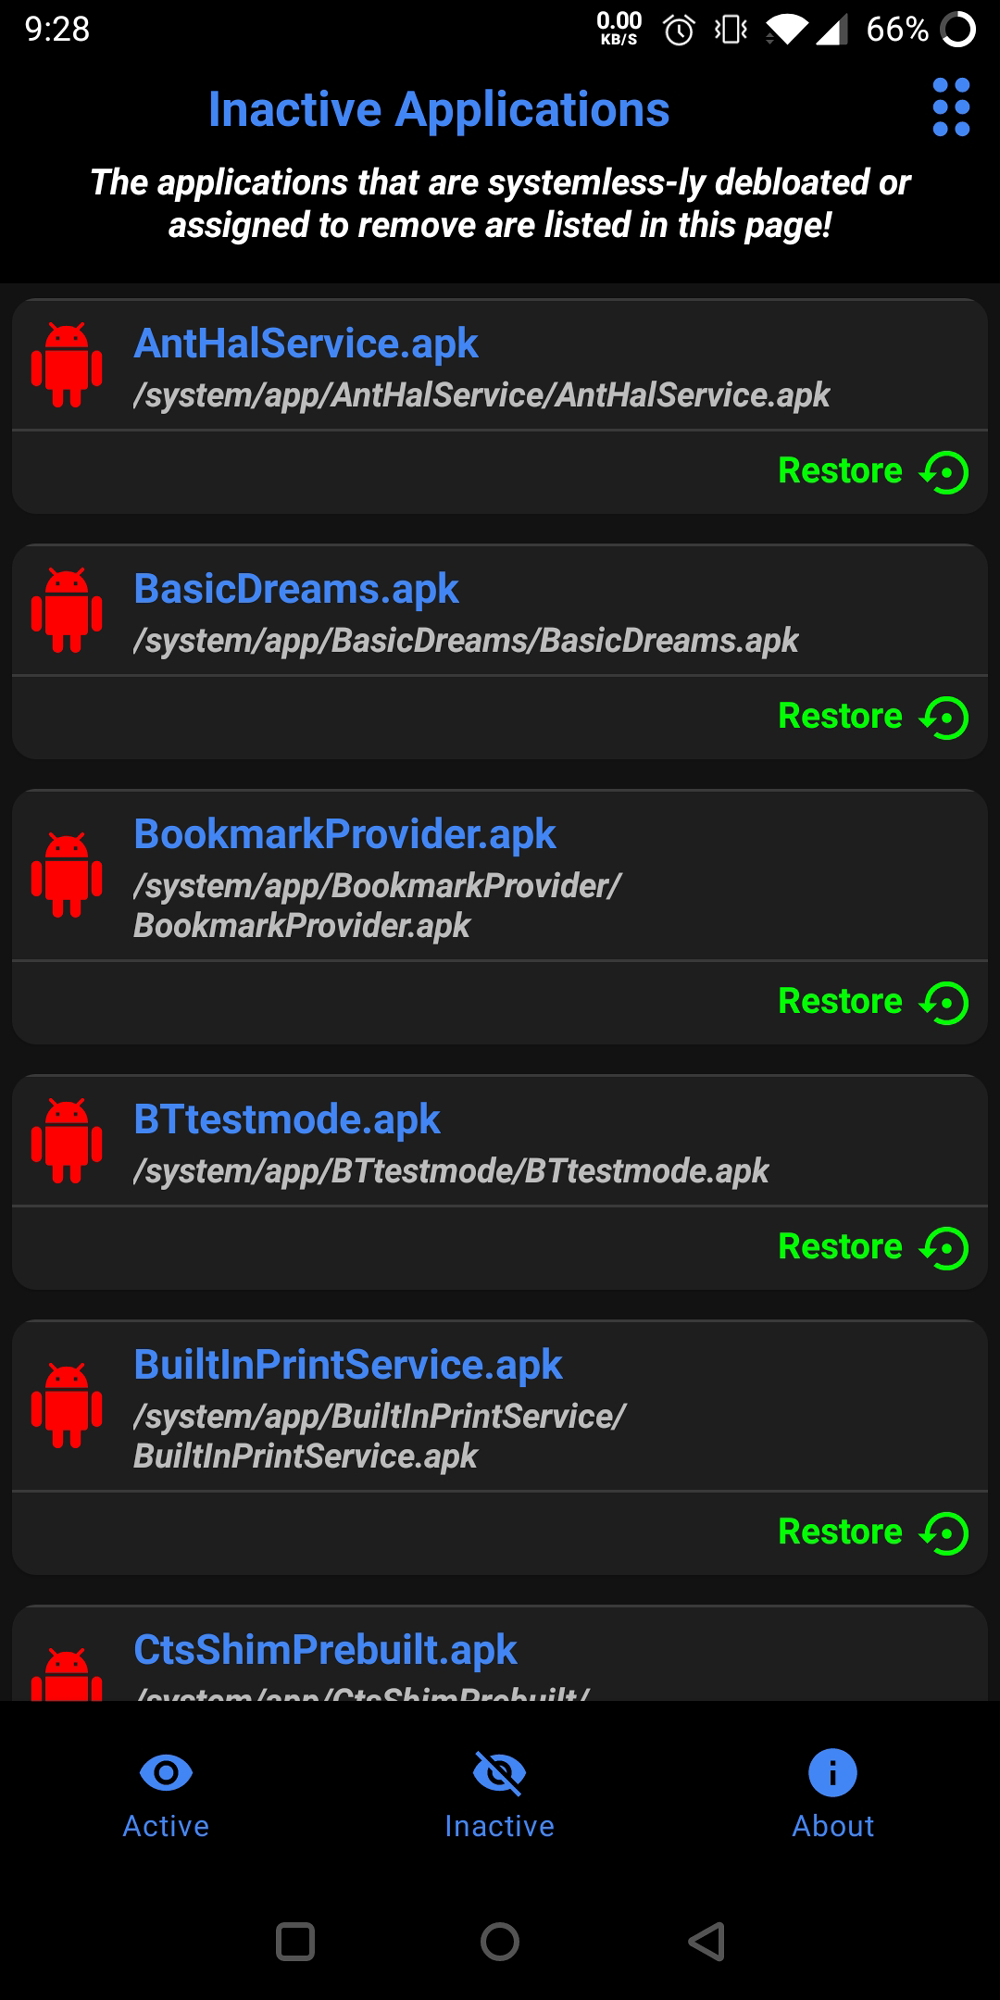
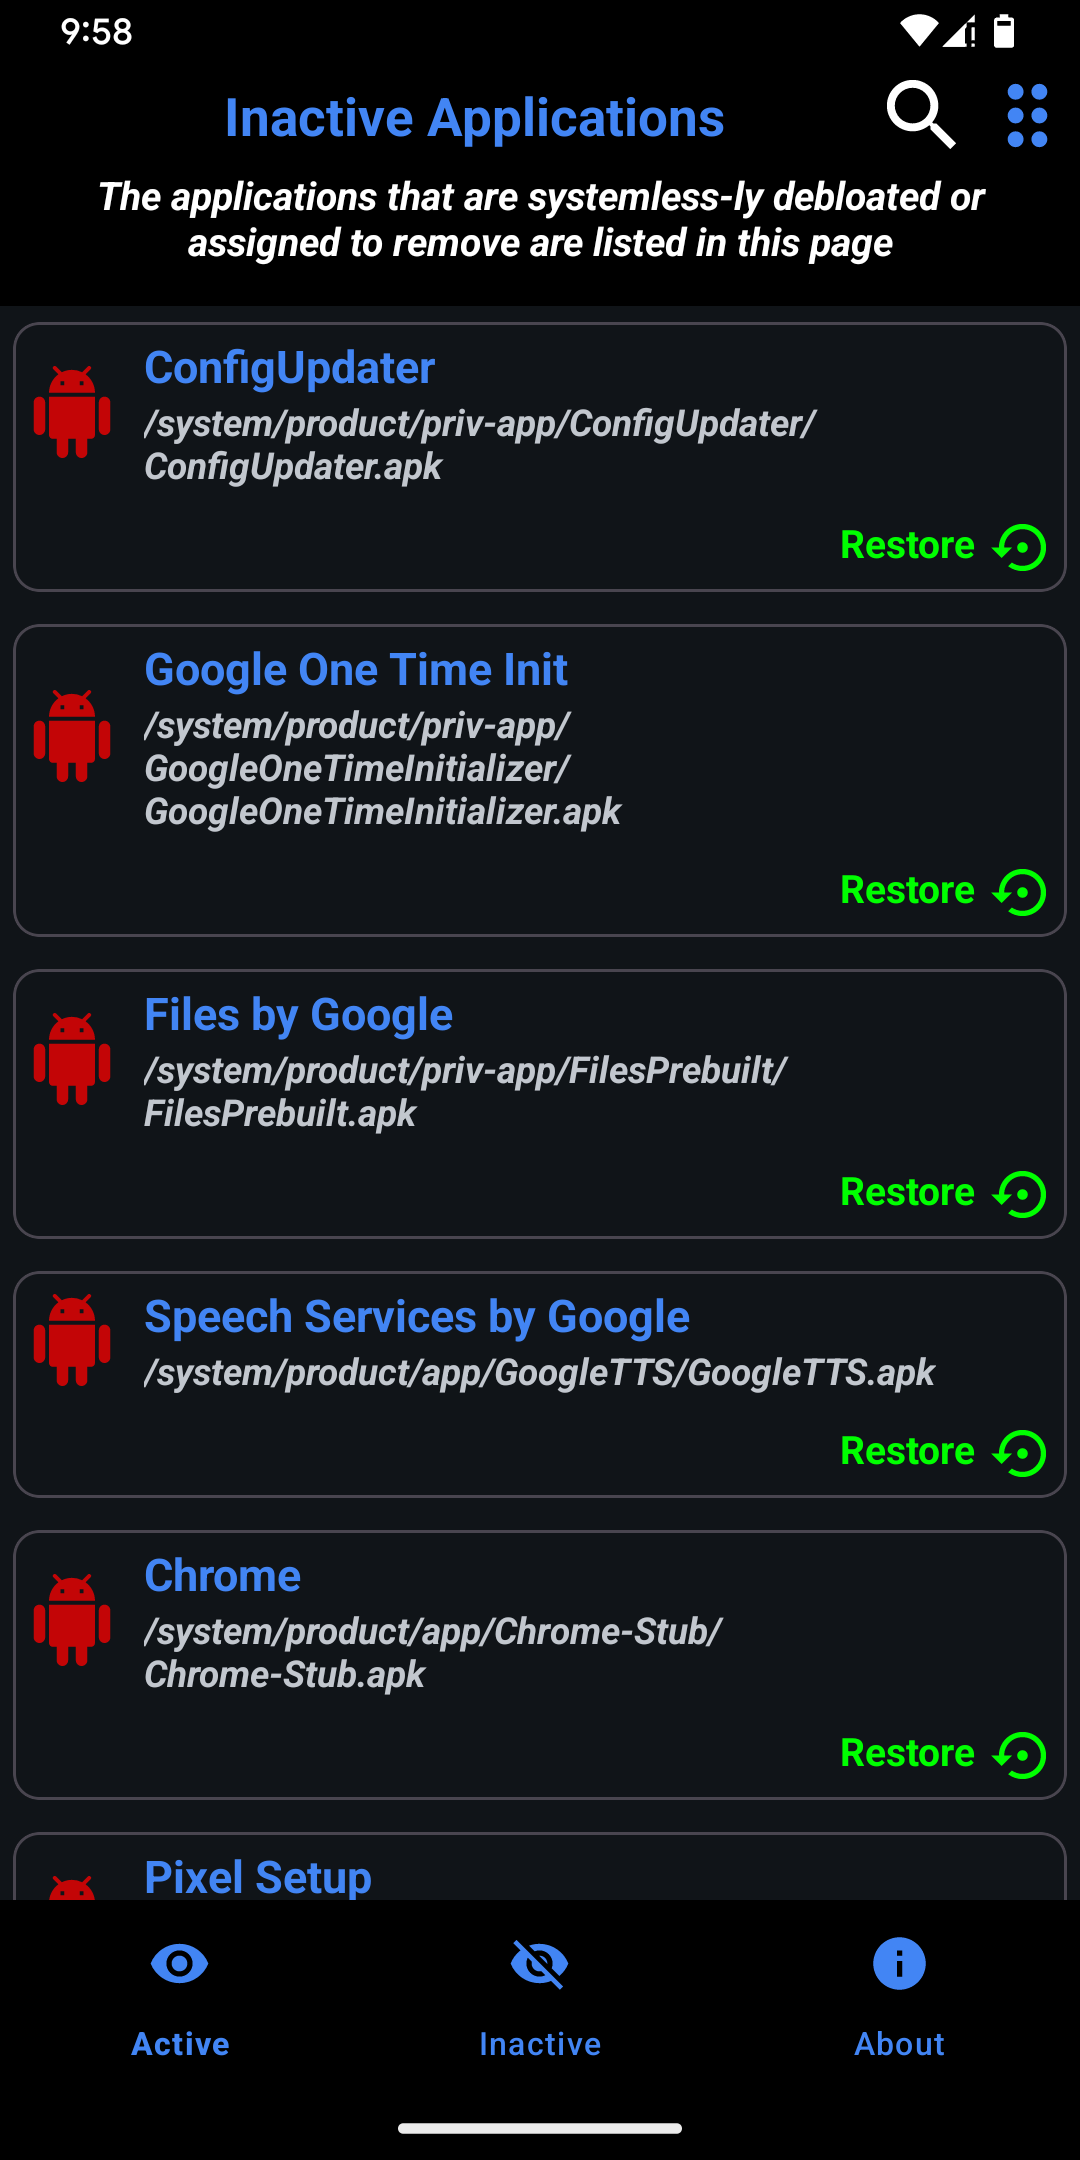
De-Bloater v0.27

diff --git a/docs/pages/general.md b/docs/pages/general.md
@@ -10,17 +10,17 @@ permalink: /general/
 
 ## General
 
-<p style="text-align: justify;"><tab1>De-Bloater is an application using the power of Magisk to de-bloat unwanted applications systemless-ly. The application is available to download via <a href="https://play.google.com/store/apps/details?id=com.sunilpaulmathew.debloater" target="_blank">Google Play</a> or <a href="https://f-droid.org/packages/com.sunilpaulmathew.debloater" target="_blank">F-Droid</a>.</tab1></p>
+<p style="text-align: justify;"><tab1>De-Bloater is an application using the power of Magisk/Kernel SU to de-bloat unwanted applications systemless-ly. The application is available to download via <a href="https://play.google.com/store/apps/details?id=com.sunilpaulmathew.debloater" target="_blank">Google Play</a> or <a href="https://f-droid.org/packages/com.sunilpaulmathew.debloater" target="_blank">F-Droid</a>.</tab1></p>
 
 ### Requirement
 
-<p style="text-align: justify;"><tab1>De-Bloater requires <b>Root Access</b> and a fully functional <b>Magisk</b> environment, including modules, for proper working. As a result, De-Bloater won't work with other rooting solutions as well as in Magisk core-only mode.</tab1></p>
+<p style="text-align: justify;"><tab1>De-Bloater requires <b>Root Access</b> and a fully functional <b>Magisk</b> or Kernel SU environment, including modules, for proper working. As a result, De-Bloater won't work with other rooting solutions as well as in Magisk core-only mode.</tab1></p>
 
 ### How to Use
-<p style="text-align: justify;"><tab1>Open the app, click the remove button on each app you want to remove. The selected apps will be removed systemless-ly after a reboot. To restore an app, either Reset Module (on the top menu) or selectively restore from the second page. Please note that a restart is necessary to get any of the changes in effect.</tab1></p>
+<p style="text-align: justify;"><tab1>Open the app, click the remove button on each app you want to remove. The selected apps will be removed systemless-ly after a reboot. To restore an app, selectively restore it from the second page (Inactive Applications) of De-Bloater. Please note that a restart is necessary to get any of these changes in effect.</tab1></p>
 
 ### How it works
-<p style="text-align: justify;"><tab1>The app will systemless-ly replace the selected APKs by making a Magisk module. As a result, you will see a new Module (name: De-bloater).</tab1></p>
+<p style="text-align: justify;"><tab1>The app will systemless-ly replace the selected APKs by making a Magisk/Kernel SU module. As a result, you will see a new Module (name: De-bloater).</tab1></p>
 
 ### Troubleshooting
 <p style="text-align: justify;"><tab1>In case, if you accidentally remove some important apps and your phone bootloops, please delete <b>"/data/adb/modules/De-bloater"</b> via recovery.</tab1></p>

diff --git a/README.md b/README.md
@@ -7,7 +7,7 @@
 ![](https://img.shields.io/github/languages/top/sunilpaulmathew/De-Bloater)
 ![](https://img.shields.io/github/contributors/sunilpaulmathew/De-Bloater)
 
-### De-Bloater is an application using the power of Magisk to de-bloat unwanted applications systemless-ly.
+### De-Bloater is an application using the power of Magisk/Kernel SU to de-bloat unwanted applications systemless-ly.
 
 ## Download
 [<img src="https://play.google.com/intl/en_us/badges/images/generic/en-play-badge.png"
@@ -27,13 +27,13 @@
 * Easily remove system apps from "/system", "/vendor", and "/product" directories.
 
 ## Requirement
-De-Bloater requires Root Access and a fully functional Magisk environment, including modules, for proper working. As a result, De-Bloater won't work with other rooting solutions as well as in Magisk core-only mode.
+De-Bloater requires Root Access and a fully functional Magisk or Kernel SU environment, including modules, for proper working. As a result, De-Bloater won't work with other rooting solutions as well as in Magisk core-only mode.
 
 ## How to Use
 Open the app, click the remove button on each app you want to remove. The selected apps will be removed systemless-ly after a reboot. To restore an app, either Reset Module (on the top menu) or selectively restore from the second page. Please note that a restart is necessary to get any of the changes in effect.
 
 ## How it works
-The app will systemless-ly replace the selected APKs by making a Magisk module. As a result, you will see a new Module (name: De-bloater).
+The app will systemless-ly replace the selected APKs by making a Magisk/Kernel SU module. As a result, you will see a new Module (name: De-bloater).
 
 ## Troubleshooting
 In case, if you accidentally remove some important apps and your phone bootloops, please delete "/data/adb/modules/De-bloater" via recovery.

diff --git a/docs/index.md b/docs/index.md
@@ -3,7 +3,7 @@ layout: default
 title: Home
 ---
 
-Welcome to the home page of De-Bloater, an application using the power of Magisk to de-bloat unwanted applications systemless-ly!
+Welcome to the home page of De-Bloater, an application using the power of Magisk/Kernel SU to de-bloat unwanted applications systemless-ly!
 
 <p style="text-align: center"><img src="https://raw.githubusercontent.com/sunilpaulmathew/De-Bloater/master/fastlane/metadata/android/en-US/images/phoneScreenshots/1.png" alt="" width="250" height="500" /> <img src="https://raw.githubusercontent.com/sunilpaulmathew/De-Bloater/master/fastlane/metadata/android/en-US/images/phoneScreenshots/2.png" alt="" width="250" height="500" /> <img src="https://raw.githubusercontent.com/sunilpaulmathew/De-Bloater/master/fastlane/metadata/android/en-US/images/phoneScreenshots/3.png" alt="" width="250" height="500" /></p>
 

diff --git a/docs/pages/change-logs.md b/docs/pages/change-logs.md
@@ -6,6 +6,12 @@ permalink: /change-logs/
 
 ## What's New
 
+### v0.27
+- Kernel SU support.
+- More materialized app UI.
+- Build with latest gradle and dependencies.
+- Miscellaneous changes.
+
 ### v0.26
 - Exp: Included '/system/preload' to support list.
 - Exporting profiles now allows using custom names.
